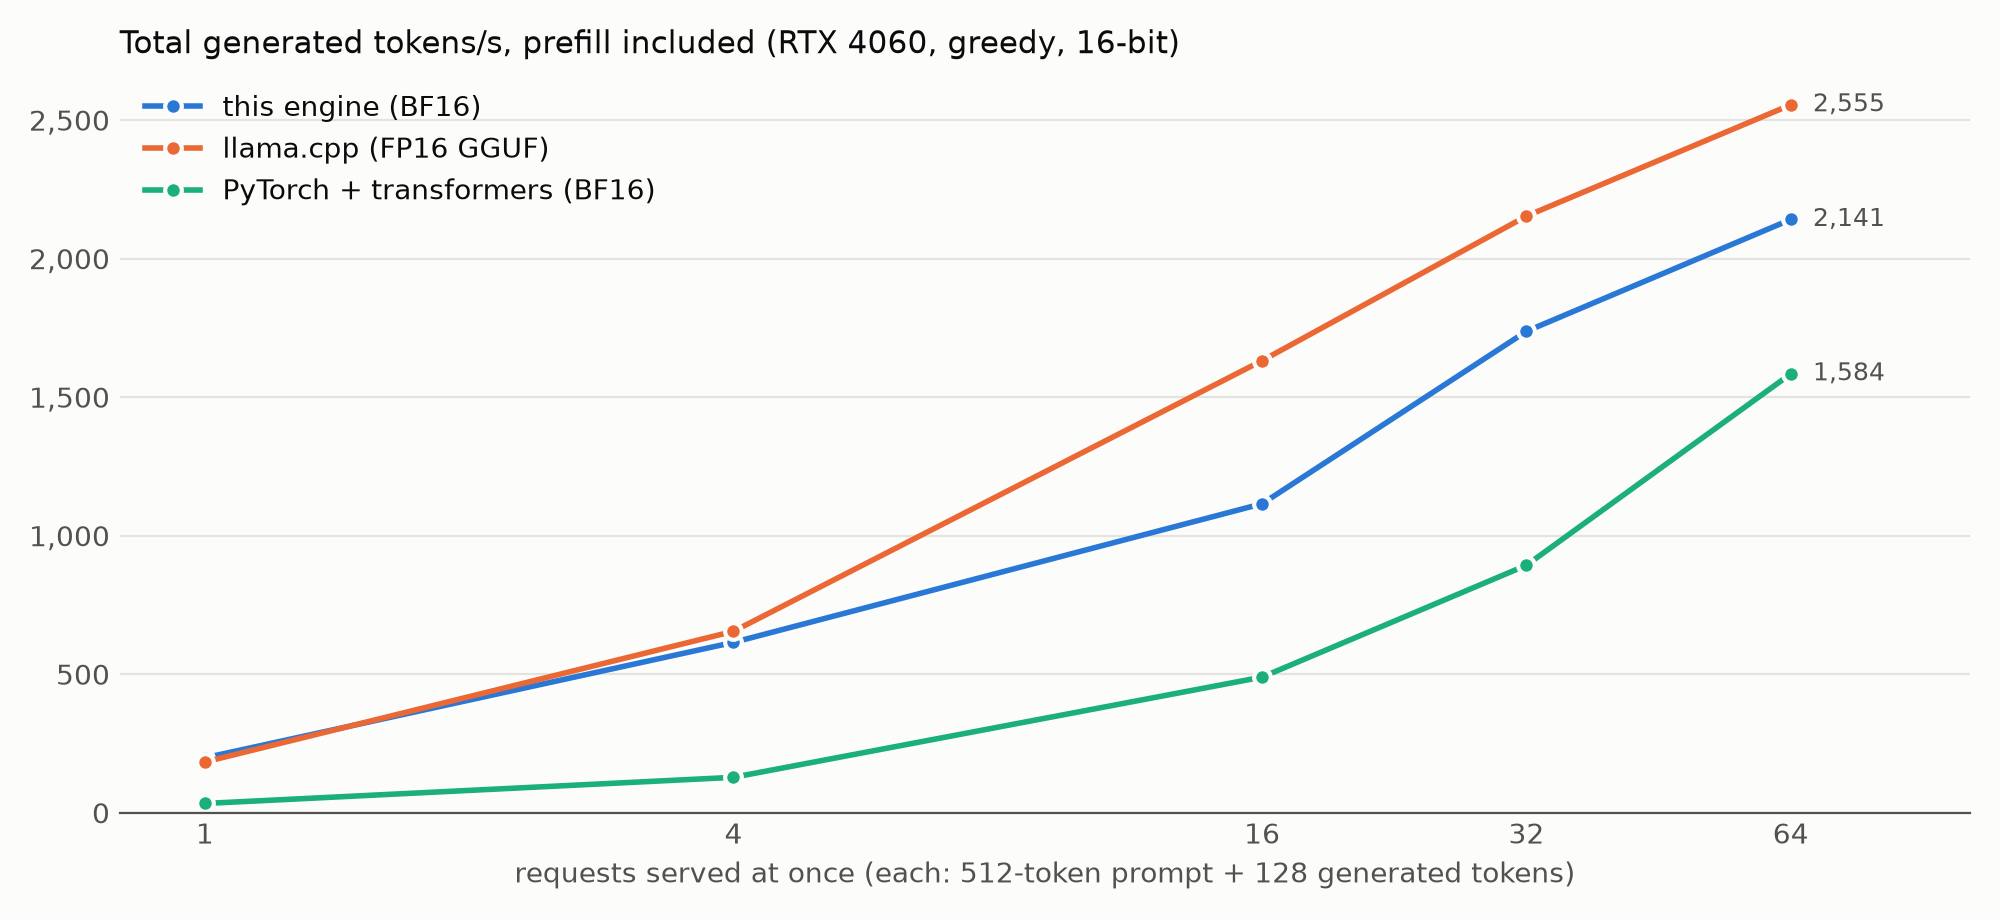
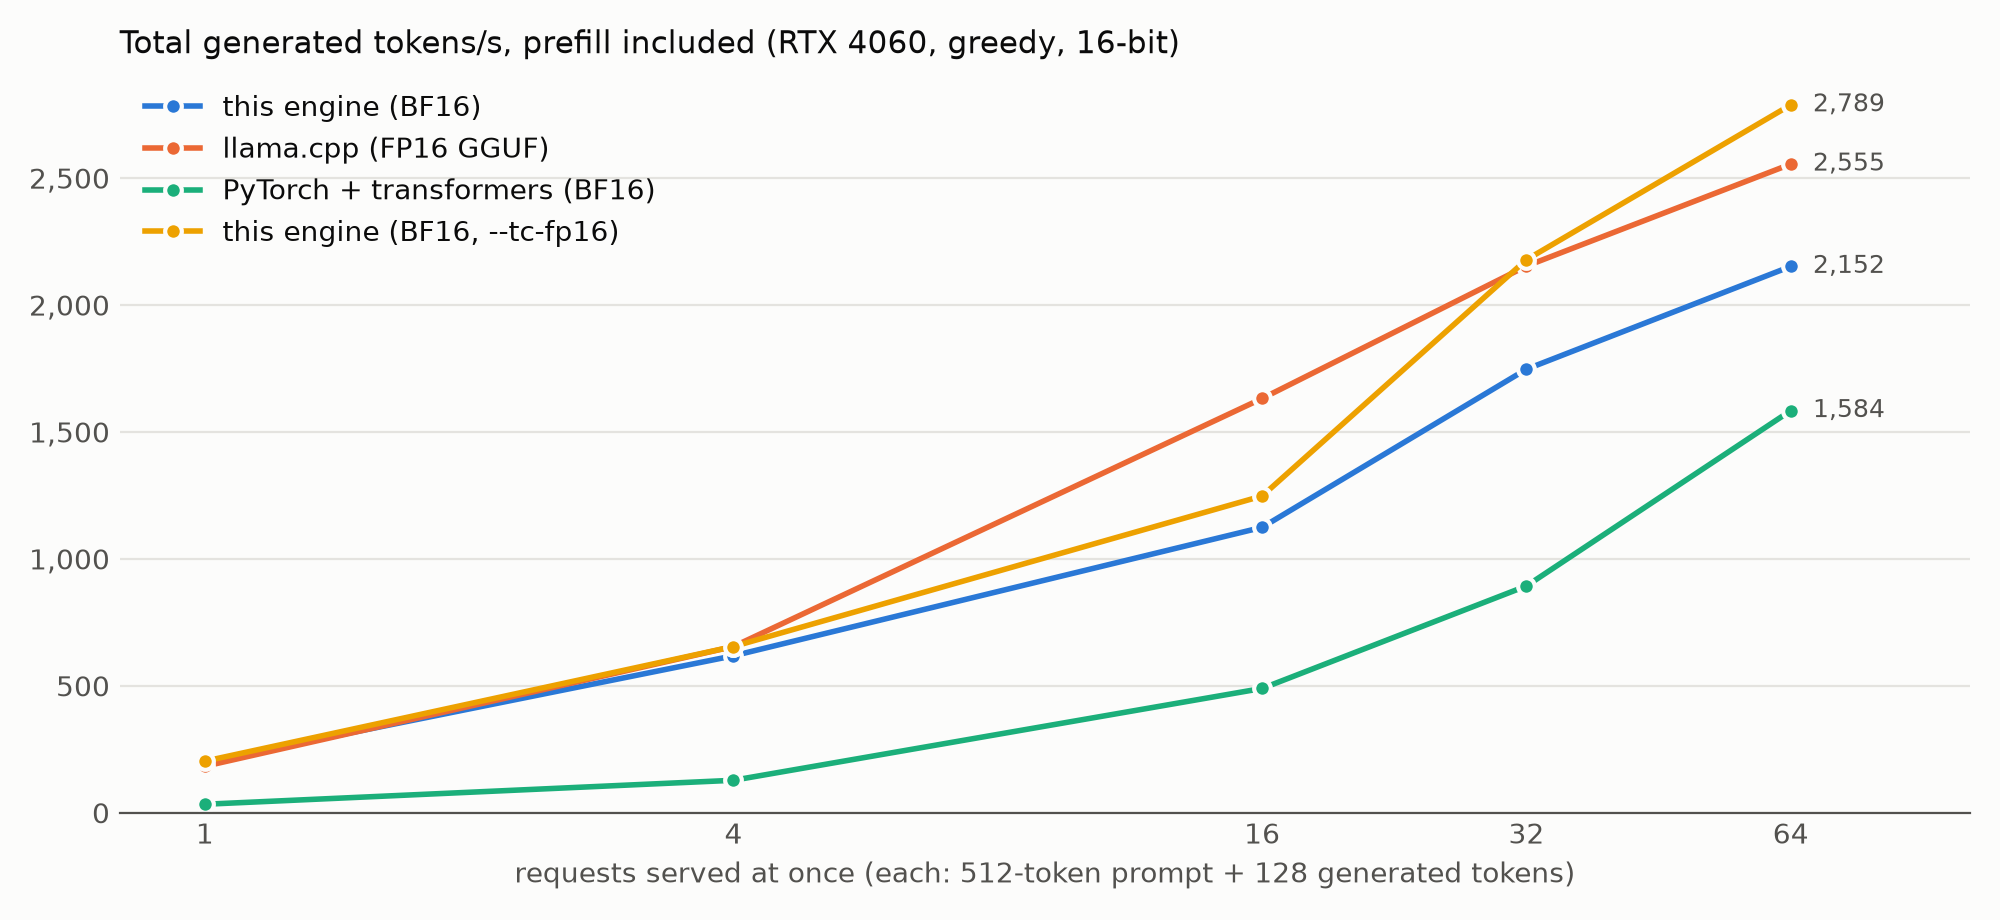
Single-pass FP16 tensor-core option: 2789 tok/s serving 64 requests, ahead of llama.cpp

diff --git a/scripts/compare.py b/scripts/compare.py
@@ -12,7 +12,9 @@ Workloads (greedy decoding, every engine on the GPU, 16-bit weights and KV cache
   - 8-bit weights, one request: this engine's INT8 vs llama.cpp's Q8_0
 
 Engines:
-  - this engine: `ie bench` and `ie serve-bench --same-length`, BF16 weights, FP16 KV cache
+  - this engine: `ie bench` and `ie serve-bench --same-length`, BF16 weights, FP16 KV cache,
+    twice: with its default exact tensor-core matmuls (two BF16 passes) and with --tc-fp16
+    (one FP16 pass, as the other two engines do)
   - llama.cpp: a prebuilt CUDA release (llama-bench, llama-batched-bench), the official
     FP16 and Q8_0 GGUF files (downloaded into models/gguf once), flash attention on
   - PyTorch: Hugging Face transformers, BF16, SDPA attention, no torch.compile
@@ -42,9 +44,14 @@ BATCH_PROMPT = 512
 GGUF_REPO = "Qwen/Qwen2.5-0.5B-Instruct-GGUF"
 GGUF_FILES = {"f16": "qwen2.5-0.5b-instruct-fp16.gguf", "q8_0": "qwen2.5-0.5b-instruct-q8_0.gguf"}
 
-ENGINES = ["this engine", "llama.cpp", "PyTorch"]
+ENGINES = ["this engine", "this engine, FP16 tc", "llama.cpp", "PyTorch"]  # table order
+# Chart order: neighbouring bars must be easy to tell apart (orange and yellow side by side
+# fail the palette check), so the FP16 variant goes last, next to aqua.
+CHART_ORDER = ["this engine", "llama.cpp", "PyTorch", "this engine, FP16 tc"]
+IE_VARIANTS = {"this engine": [], "this engine, FP16 tc": ["--tc-fp16"]}
 LABELS = {  # what each engine runs, for the tables
     "this engine": "this engine (BF16)",
+    "this engine, FP16 tc": "this engine (BF16, --tc-fp16)",
     "llama.cpp": "llama.cpp (FP16 GGUF)",
     "PyTorch": "PyTorch + transformers (BF16)",
 }
@@ -88,26 +95,26 @@ def table_rows(text, first_cell):
 
 
 def bench_ie(ie, model, out):
-    single = out.setdefault("single", {}).setdefault("this engine", {})
-    for p in PROMPTS:
-        text = run([ie, "bench", model, "--device", "cuda", "--weights", "bf16", "--kv", "f16",
-                    "--prompt-tokens", p, "--gen-tokens", GEN])
-        cells = table_rows(text, "cuda")[-1]  # | cuda | bf16 | kernel | - | prefill | decode | GB/s |
-        single[f"prefill_{p}"] = float(cells[4])
-        single[f"decode_{p}"] = float(cells[5])
+    for name, extra in IE_VARIANTS.items():
+        single = out.setdefault("single", {}).setdefault(name, {})
+        for p in PROMPTS:
+            text = run([ie, "bench", model, "--device", "cuda", "--weights", "bf16", "--kv", "f16",
+                        "--prompt-tokens", p, "--gen-tokens", GEN, *extra])
+            cells = table_rows(text, "cuda")[-1]  # | cuda | bf16 | kernel | - | prefill | decode | GB/s |
+            single[f"prefill_{p}"] = float(cells[4])
+            single[f"decode_{p}"] = float(cells[5])
+        batched = out.setdefault("batched", {}).setdefault(name, {})
+        for b in BATCHES:
+            text = run([ie, "serve-bench", model, "--same-length", "--kv", "f16",
+                        "--prompt-tokens", BATCH_PROMPT, "--gen-tokens", GEN,
+                        "--requests", b, "--concurrency", b, *extra])
+            cells = table_rows(text, str(b))[-1]  # | concurrency | peak | steps | time | tok/s | ...
+            batched[str(b)] = float(cells[4])
     text = run([ie, "bench", model, "--device", "cuda", "--weights", "int8", "--kv", "f16",
                 "--prompt-tokens", BATCH_PROMPT, "--gen-tokens", GEN])
     cells = table_rows(text, "cuda")[-1]
     out.setdefault("eight_bit", {})["this engine (INT8)"] = {
         "prefill_512": float(cells[4]), "decode_512": float(cells[5])}
-
-    batched = out.setdefault("batched", {}).setdefault("this engine", {})
-    for b in BATCHES:
-        text = run([ie, "serve-bench", model, "--same-length", "--kv", "f16",
-                    "--prompt-tokens", BATCH_PROMPT, "--gen-tokens", GEN,
-                    "--requests", b, "--concurrency", b])
-        cells = table_rows(text, str(b))[-1]  # | concurrency | peak | steps | time | tok/s | ...
-        batched[str(b)] = float(cells[4])
 
 
 # ---------------------------------------------------------------- llama.cpp --
@@ -257,7 +264,8 @@ def tables(r):
 
 
 # Reference categorical palette, slots 1-3 in fixed order; text in ink colors, never series colors.
-COLORS = {"this engine": "#2a78d6", "llama.cpp": "#eb6834", "PyTorch": "#1baf7a"}
+COLORS = {"this engine": "#2a78d6", "llama.cpp": "#eb6834", "PyTorch": "#1baf7a",
+          "this engine, FP16 tc": "#eda100"}
 SURFACE, INK, INK_2, GRID = "#fcfcfb", "#0b0b0b", "#52514e", "#e4e3df"
 
 
@@ -283,7 +291,7 @@ def charts(r):
 
     # One request: decode and prefill, two context lengths, one bar per engine.
     s = r.get("single", {})
-    engines = [e for e in ENGINES if e in s]
+    engines = [e for e in CHART_ORDER if e in s]
     if engines:
         fig, axes = plt.subplots(1, 2, figsize=(10, 4.2), facecolor=SURFACE)
         for ax, (metric, title) in zip(axes, [("decode", "Decode, one request (tokens/s)"),
@@ -303,7 +311,8 @@ def charts(r):
             ax.yaxis.set_major_formatter(thousands)
             ax.set_title(title, loc="left", fontsize=11, color=INK)
         handles, labels = axes[0].get_legend_handles_labels()
-        fig.legend(handles, labels, frameon=False, loc="lower center", ncol=len(engines))
+        fig.legend(handles, labels, frameon=False, loc="lower center", ncol=min(len(engines), 4),
+                   fontsize=9)
         fig.suptitle(f"Qwen2.5-0.5B-Instruct on an {gpu}, greedy, 16-bit weights", x=0.01, ha="left",
                      fontsize=12, color=INK)
         fig.tight_layout(rect=(0, 0.08, 1, 1))
@@ -312,7 +321,7 @@ def charts(r):
 
     # Many requests at once: total generated tokens/s against the number of requests.
     b = r.get("batched", {})
-    engines = [e for e in ENGINES if e in b]
+    engines = [e for e in CHART_ORDER if e in b]
     if engines:
         fig, ax = plt.subplots(figsize=(10, 4.6), facecolor=SURFACE)
         style(ax)

diff --git a/src/main.cpp b/src/main.cpp
@@ -16,6 +16,7 @@
 //
 // Performance options: --device cpu|cuda (default: cuda if available)
 //                      --no-graph, --no-tensor-cores (CUDA, for comparisons)
+//                      --tc-fp16 (CUDA: tensor-core matmuls in one FP16 pass, ~2x faster prefill)
 //                      --kv f32|f16 (CUDA KV cache precision, default f32)
 //                      --weights f32|bf16|int8 (default bf16)  --threads N (default: physical cores)
 //                      --kernel scalar|avx2 (default: avx2 if compiled in)
@@ -103,7 +104,7 @@ void usage() {
       "\n"
       "options: --max-tokens N  --ctx N  --temp T  --top-k K  --top-p P  --rep R  --seed S  --greedy\n"
       "         --device cpu|cuda  --weights f32|bf16|int8  --threads N  --kernel scalar|avx2\n"
-      "         --no-graph  --no-tensor-cores  --kv f32|f16\n");
+      "         --no-graph  --no-tensor-cores  --tc-fp16  --kv f32|f16\n");
 }
 
 double seconds_since(Clock::time_point t0) {
@@ -179,6 +180,7 @@ struct Options {
   std::string device = "auto";  // auto = cuda if built with CUDA and a GPU is present
   bool graphs = true;            // CUDA: replay each decode step as a recorded graph
   bool tensor_cores = true;      // CUDA: tensor-core GEMM for multi-token (prefill) matmuls
+  bool tc_fp16 = false;          // CUDA: those matmuls in one FP16 pass instead of the exact BF16 split
   bool kv_f16 = false;           // CUDA: KV cache as FP16 (half the memory) instead of FP32
   std::string weights = "bf16";
   int threads = 0;           // 0 = one per physical core
@@ -219,6 +221,7 @@ Options parse_options(const std::vector<std::string>& args, size_t first) {
     else if (a == "--device") o.device = next();
     else if (a == "--no-graph") o.graphs = false;
     else if (a == "--no-tensor-cores") o.tensor_cores = false;
+    else if (a == "--tc-fp16") o.tc_fp16 = true;
     else if (a == "--kv") {
       const std::string v = next();
       if (v != "f32" && v != "f16") throw std::runtime_error("--kv must be f32 or f16");
@@ -275,6 +278,9 @@ void apply_compute_options(const Options& o) {
   ie::set_num_threads(o.threads);  // <= 0: one per physical core
   if (!o.kernel.empty()) ie::set_kernel(ie::parse_kernel(o.kernel));
   set_tensor_cores(o.tensor_cores);
+#ifdef IE_WITH_CUDA
+  ie::cuda::set_tc_fp16(o.tc_fp16);
+#endif
 }
 
 bool cuda_available() {
@@ -622,7 +628,7 @@ int cmd_bench(const Options& o) {
     BenchResult r = run_bench(*model, tok, o.prompt_tokens, o.gen_tokens);
     const bool gpu = c.device == "cuda";
     std::printf("| %s | %s | %s | %s | %.1f | %.1f | %.1f |\n", c.device.c_str(), c.weights.c_str(),
-                gpu ? (std::string("cuda") + (c.graphs ? " graph" : "") + (c.tensor_cores ? " + tc" : "")).c_str()
+                gpu ? (std::string("cuda") + (c.graphs ? " graph" : "") + (c.tensor_cores ? (o.tc_fp16 ? " + tc fp16" : " + tc") : "")).c_str()
                     : ie::kernel_name(c.kernel),
                 gpu ? "-" : std::to_string(c.threads).c_str(), r.prefill_tps, r.decode_tps, r.gbps);
     std::fflush(stdout);

diff --git a/src/cuda/cuda_runner.h b/src/cuda/cuda_runner.h
@@ -28,6 +28,8 @@ std::unique_ptr<BatchRunner> make_batch_runner(const Config& cfg, const Weights&
 
 // Multi-token matmuls (prefill) use tensor cores by default; switch off to compare.
 void set_tensor_cores(bool on);
+// Tensor-core matmuls in one FP16 pass (faster) instead of the exact two-pass BF16 split.
+void set_tc_fp16(bool on);
 
 // Compares every CUDA kernel with the CPU reference on random data. Returns 0 if all pass.
 int run_selftest();

diff --git a/README.md b/README.md
@@ -14,8 +14,9 @@ Target model: **Qwen2.5-0.5B-Instruct** (download needs no license approval). De
 > KV cache and continuous batching serve many requests at once: **2,346 tok/s across 64 concurrent
 > requests** (2,485 with a 16-bit KV cache), 12.2x serving them one at a time, with every request's
 > output identical to serving it alone. `ie serve` exposes it as an OpenAI-compatible HTTP server.
-> On the same GPU, decode is within 4-5% of llama.cpp and 5.7x plain PyTorch; prefill is about half
-> of llama.cpp's speed ([comparison](#compared-with-llamacpp-and-pytorch)).
+> On the same GPU, decode is within 3-5% of llama.cpp and 5.7x plain PyTorch; serving 64 requests with
+> `--tc-fp16`, 2,789 tok/s against llama.cpp's 2,555; prefill is about 57% of llama.cpp's speed
+> ([comparison](#compared-with-llamacpp-and-pytorch)).
 
 ## Layout
 
@@ -166,7 +167,8 @@ print(reply.choices[0].message.content)
 
 Options: `--host` (default `127.0.0.1`), `--port`, `--max-batch N` (requests decoded together, default
 32), `--ctx N` (prompt + reply per request), `--kv-gb G`, `--kv f16` (16-bit KV cache: twice the
-tokens per GB), `--weights`; the sampling options set the
+tokens per GB), `--tc-fp16` (faster batched matmuls; both are worth using for serving), `--weights`;
+the sampling options set the
 defaults for requests that leave them out. Besides the standard fields, requests accept `top_k` and
 `repetition_penalty`. `scripts\test_server.py` checks a plain and a streamed reply, a burst of
 concurrent requests, and that a greedy reply is the same alone and under load. On the RTX 4060 with
@@ -225,6 +227,8 @@ the model's default sampling (temperature 0.7, top-p 0.8, top-k 20): the first s
       buffers, one barrier per step): prefill +15%
 - [x] FP16 KV cache option (`--kv f16`): half the cache memory and traffic, math still FP32;
       perplexity 14.7775 → 14.7776, serving 64 requests +6%
+- [x] Single-pass FP16 tensor-core option (`--tc-fp16`): half the tensor-core work and shared
+      memory per tile; perplexity 14.7775 → 14.7755, serving 64 requests +30% (2,152 → 2,789 tok/s)
 - [ ] Tensor-core (WMMA) version of the prefill attention
 - [ ] INT4 weight-only quantization
 - [x] Paged KV cache: 16-token pages from a shared pool, one page table per sequence; memory follows
@@ -246,16 +250,19 @@ the model's default sampling (temperature 0.7, top-p 0.8, top-k 20): the first s
 ## Compared with llama.cpp and PyTorch
 
 Same GPU (RTX 4060), same model, greedy decoding, 16-bit weights and KV cache everywhere:
-this engine with BF16 weights; [llama.cpp](https://github.com/ggml-org/llama.cpp) build b12292
-(CUDA, flash attention on) with Qwen's official FP16 GGUF; PyTorch + Hugging Face transformers in
-BF16 with SDPA attention (no `torch.compile`). `python scripts\compare.py --llama-dir <llama.cpp>`
-reruns everything and redraws the charts; raw numbers are in `docs/benchmarks.json`.
+this engine with BF16 weights, both with its default exact tensor-core matmuls (two BF16 passes per
+tile, FP32-level accuracy) and with `--tc-fp16` (one FP16 pass, as the other two engines do);
+[llama.cpp](https://github.com/ggml-org/llama.cpp) build b12292 (CUDA, flash attention on) with
+Qwen's official FP16 GGUF; PyTorch + Hugging Face transformers in BF16 with SDPA attention (no
+`torch.compile`). `python scripts\compare.py --llama-dir <llama.cpp>` reruns everything and redraws
+the charts; raw numbers are in `docs/benchmarks.json`.
 
 ![One request: decode and prefill tokens/s for the three engines](docs/bench_single.png)
 
 | Engine | Prefill 512 tok/s | Decode @512 tok/s | Prefill 4,000 tok/s | Decode @4,000 tok/s |
 |---|--:|--:|--:|--:|
-| this engine (BF16) | 12,890 | 201.6 | 10,249 | 188.2 |
+| this engine (BF16) | 14,232 | 203.1 | 10,312 | 190.2 |
+| this engine (BF16, `--tc-fp16`) | 14,300 | 202.8 | 10,236 | 189.9 |
 | llama.cpp (FP16 GGUF) | 25,059 | 209.8 | 25,550 | 197.1 |
 | PyTorch + transformers (BF16) | 13,756 | 35.3 | 20,303 | 35.5 |
 
@@ -266,35 +273,39 @@ Each request: a 512-token prompt and 128 generated tokens, all arriving together
 
 | Engine | 1 at once | 4 at once | 16 at once | 32 at once | 64 at once |
 |---|--:|--:|--:|--:|--:|
-| this engine (BF16) | 198 | 615 | 1,115 | 1,738 | 2,141 |
+| this engine (BF16) | 199 | 618 | 1,124 | 1,747 | 2,152 |
+| this engine (BF16, `--tc-fp16`) | **203** | 655 | 1,248 | **2,178** | **2,789** |
 | llama.cpp (FP16 GGUF) | 183 | 655 | 1,632 | 2,154 | 2,555 |
 | PyTorch + transformers (BF16) | 33 | 128 | 489 | 893 | 1,584 |
 
 | 8-bit weights, one request | Prefill 512 tok/s | Decode @512 tok/s |
 |---|--:|--:|
-| this engine (INT8, per-row scales) | 12,166 | 327.3 |
+| this engine (INT8, per-row scales) | 12,265 | 327.7 |
 | llama.cpp (Q8_0) | 30,802 | 344.4 |
 
 What the numbers say:
 
-- **Decode is within 4-5% of llama.cpp** (BF16 202 vs 210 tok/s, INT8 327 vs 344) and 5.7x plain
+- **Decode is within 3-5% of llama.cpp** (BF16 203 vs 210 tok/s, INT8 328 vs 344) and 5.7x plain
   PyTorch. Decoding one sequence is limited by how fast the weights stream from memory, and both
   engines are close to that limit; PyTorch loses to the per-token Python and kernel-launch overhead
   that CUDA graphs remove here.
-- **Prefill is about half of llama.cpp's speed** (12,890 vs 25,059 tok/s on 512 tokens; 10,249 vs
-  25,550 on 4,000). Three reasons, in order of size: every prefill matmul here runs twice on the
-  tensor cores, because activations are split into two BF16 halves to keep FP32-level accuracy
-  (llama.cpp and PyTorch round activations to 16 bits once); this engine's tensor-core GEMM is a
-  plain 64 x 64-tile WMMA kernel, against cuBLAS and llama.cpp's tuned kernels; and prefill attention
-  runs on CUDA cores, against tensor-core flash attention, which is why the gap widens at 4,000 tokens.
-- **Serving many requests follows prefill.** With one request this engine is ahead (198 vs 183
-  tok/s), at 4 it is close, and from 16 on llama.cpp leads (2,555 vs 2,141 at 64): in this workload
-  each request is mostly prompt, and at 64 requests prefilling takes about two thirds of the run.
-  Plain PyTorch is behind at every size.
+- **Serving many requests: with `--tc-fp16`, ahead of llama.cpp at 1, 32 and 64 requests** (2,789 vs
+  2,555 tok/s at 64), level at 4, behind at 16 (1,248 vs 1,632). Batches of 32+ run their matmuls on
+  the tensor cores, and the single-pass kernel is lighter (fewer registers, half the shared memory),
+  so more blocks fit on each SM: +30% at 64 requests over the exact mode. Perplexity is unchanged
+  (14.7775 exact, 14.7755 with `--tc-fp16`). Batches of 2-31 use the CUDA-core kernel, which is why
+  16 requests is the weak point. Plain PyTorch is behind at every size.
+- **Prefill is about 57% of llama.cpp's speed** (14,232 vs 25,059 tok/s on 512 tokens; 10,312 vs
+  25,550 on 4,000). Halving the tensor-core work with `--tc-fp16` changes nothing here, so the math
+  is not the bottleneck: this engine's GEMM is a plain 64 x 64-tile WMMA kernel that loads FP32
+  activations and converts them for every tile, and it is limited by moving data rather than by the
+  tensor cores, where cuBLAS and llama.cpp use larger tiles, lower-level MMA instructions and 16-bit
+  activations between layers. At 4,000 tokens, prefill attention (on CUDA cores here, tensor-core
+  flash attention in llama.cpp) widens the gap.
 
-So the next lever is prefill: a single-pass 16-bit option for the tensor-core matmul (trading a
-little accuracy for ~2x fewer tensor-core operations, which is what the other two engines do), a
-better-tuned GEMM tile, and tensor cores in prefill attention.
+The open item is therefore the prefill GEMM itself: larger tiles, `ldmatrix`/`mma.sync` instead of
+WMMA, asynchronous copies, and keeping activations in 16 bits between layers; then tensor cores in
+prefill attention.
 
 ## Performance log
 
@@ -325,6 +336,7 @@ better-tuned GEMM tile, and tensor cores in prefill attention.
 | 2026-11-11 | GPU: FP16 KV cache (`--kv f16`), serving 64 concurrent requests | **2485.0** | - | +6%; cache 1,152 → 576 MiB; perplexity +0.0001 |
 | 2026-11-11 | GPU: FP16 KV cache, 4,000-token prompt | 173.9 | 9755.4 | within run-to-run noise of FP32 for one sequence |
 | 2026-11-11 | **`ie serve` (HTTP, sampling), 16 simultaneous requests** | **1039.2** | - | first streamed text after 11 ms; greedy reply identical alone and under load |
+| 2026-11-12 | **GPU: `--tc-fp16`, 64 requests of 512 + 128 tokens (llama.cpp: 2,555)** | **2788.9** | - | +30% over the exact mode; perplexity 14.7755 |
 
 Full sweep (`ie bench --sweep`, 64-token prompt, 32 generated tokens) on a Ryzen 5 3600XT
 (6 cores / 12 threads, AVX2, dual-channel DDR4) and an RTX 4060 (8 GB):
